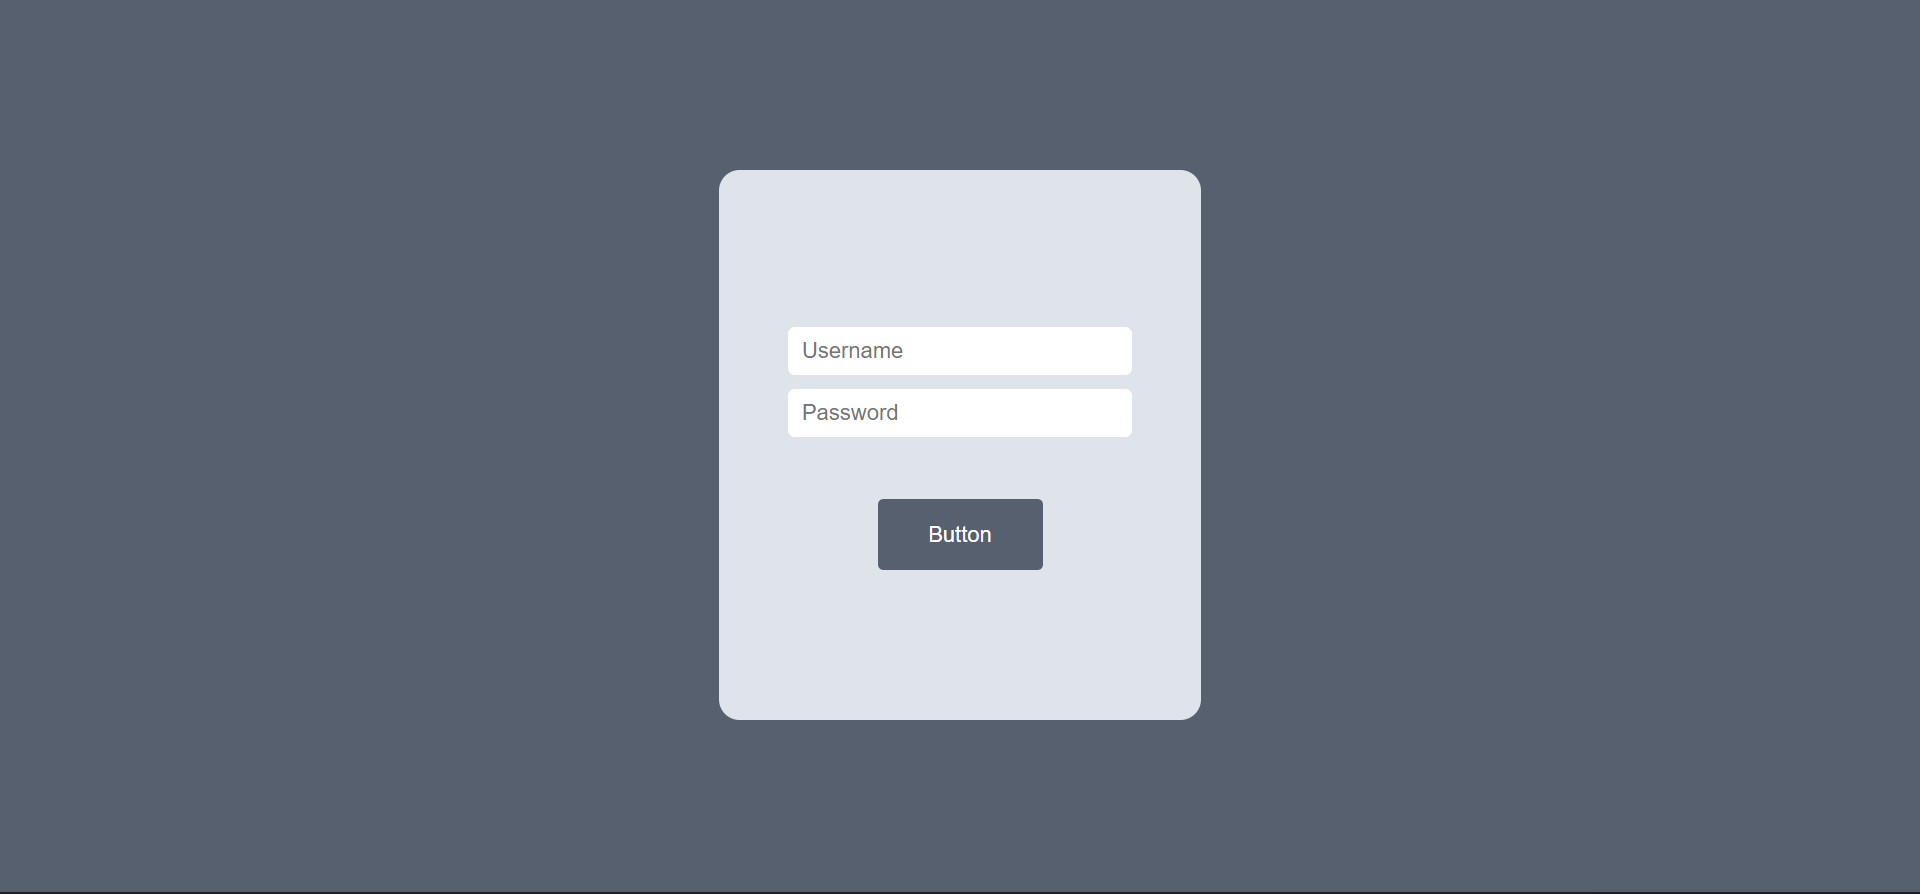
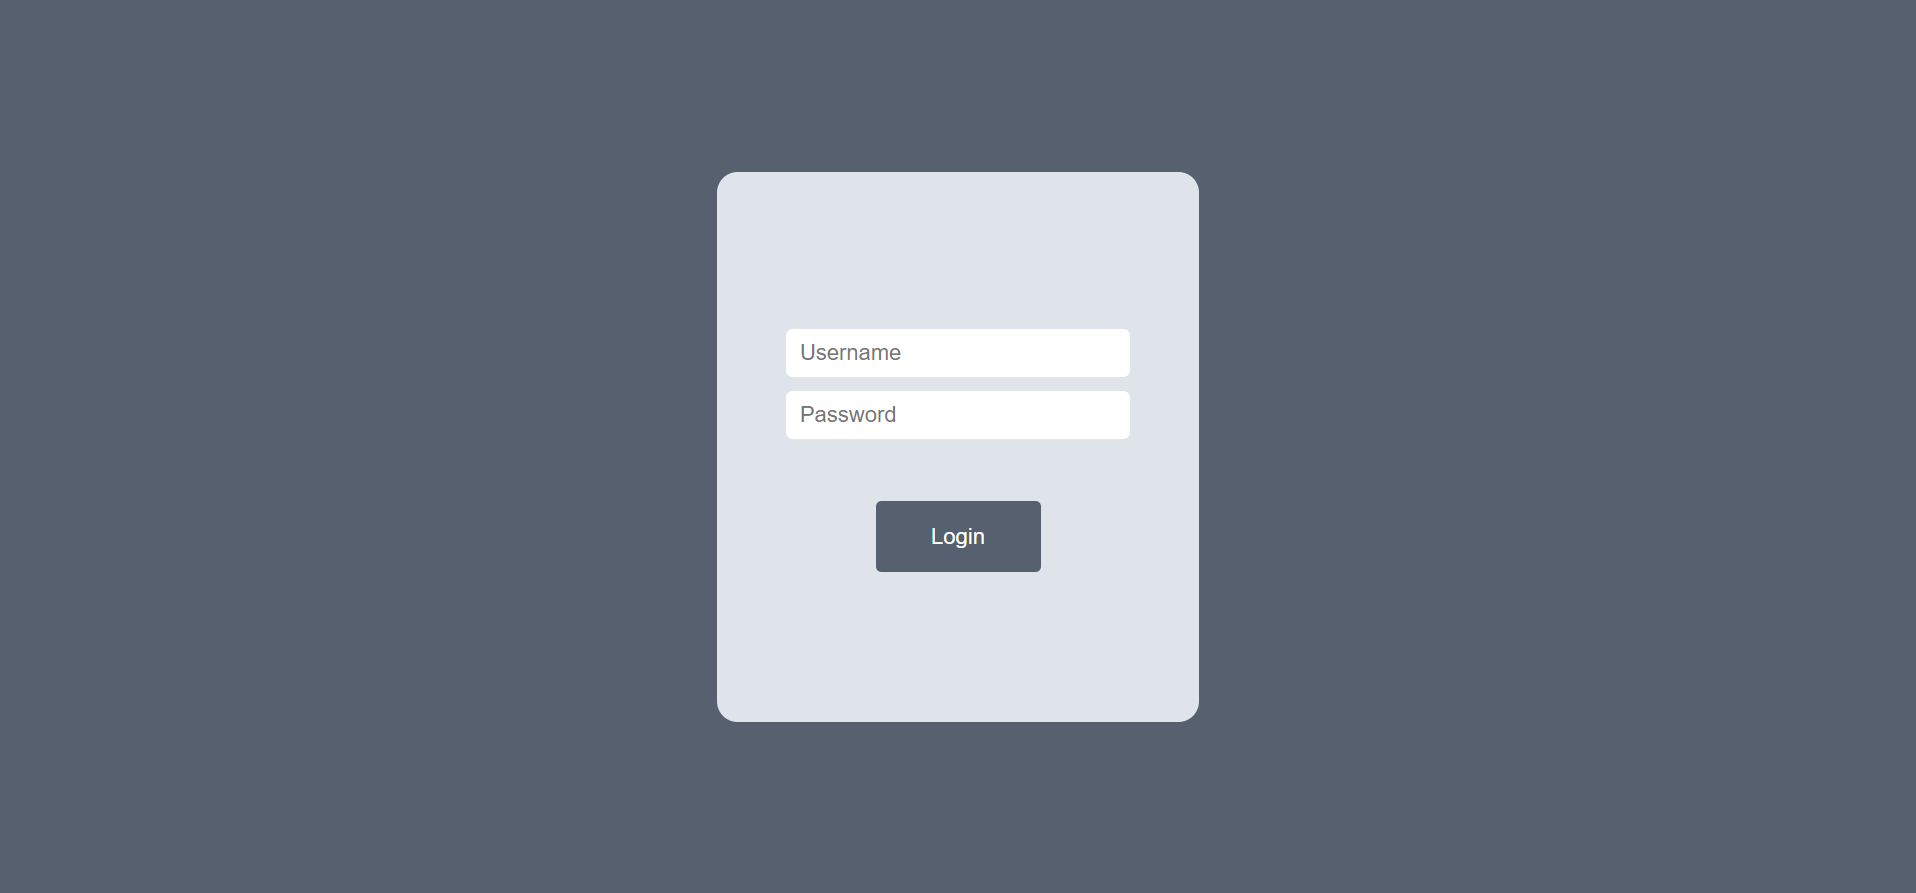
fixlendi

diff --git a/src/components/Login.jsx b/src/components/Login.jsx
@@ -42,7 +42,7 @@ const loginChange =(e) => {
         </div>
 
         <button type='submit' className='logBtn' onClick={loginChange}>
-             <span> Button </span>
+             <span> Login </span>
         </button>
 
         <ToastContainer
